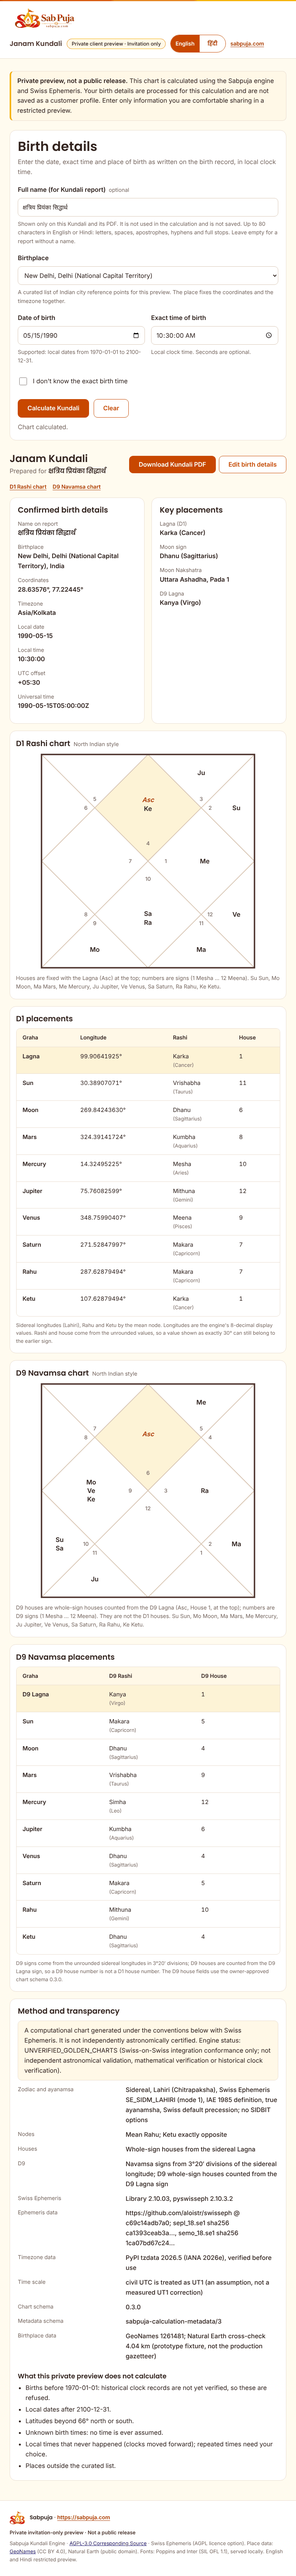
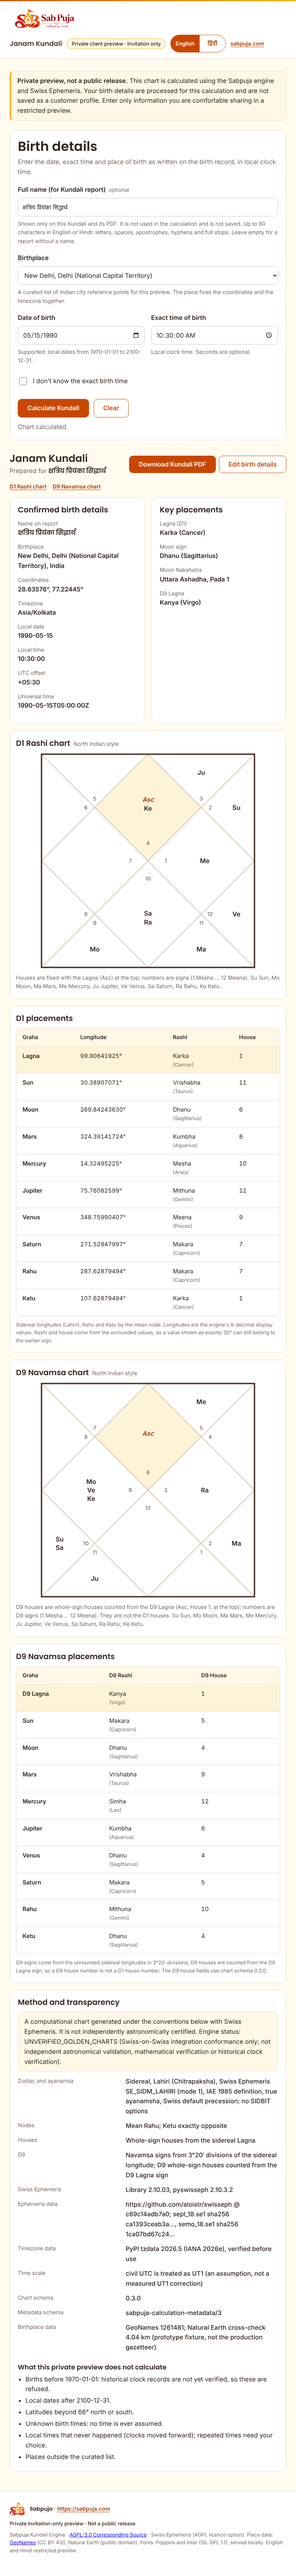
KUN-I18N-COPY-005 (1/2): apply owner-approved Changes A and B (reviewed source)
Owner decision (issue #73): implement Changes A and B exactly as documented, for
exact-SHA independent QA. This commit is the new editorial reviewed source; the
next commit re-pins the register to it (refresh_manifest.py --pin-source) and
adds the PAN-QA-08 v4 identity overlay. Until then test_editorial_register and
the PAN-QA-08 current-tree checks fail here by design.

Change A (register item 13): report/phase1/report_i18n.json method.exc5 English
"Hindi edition" -> "Hindi text (available as a separate edition)"; Hindi value
byte-identical. The 26 pinned English report hashes in test_premium_name.py are
replaced; each new value equals the renderer bytes recomputed on this tree, and
each old value equals the renderer bytes on 7fc1702. English pages 1-9 are
identical (content stream, text, drawings); page 10 differs by that one line;
all 52 Hindi PDFs are byte-identical to 7fc1702.

Change B (register item 15): prototype/kundali_prototype/static/i18n.json
ui.d9.footnote EN "... use the owner-approved chart schema 0.3.0." -> "... use
chart schema 0.3.0."; HI "... स्वीकृत चार्ट स्कीमा 0.3.0 ..." -> "... चार्ट स्कीमा
0.3.0 ..."; the index.html English fallback matches. No PDF, /api/chart or schema
change.

Tests: report/phase1/tests/test_owner_copy_change_a.py and _b.py (from the
reviewed patches, B tightened to the full exact strings and the HTML fallback).

Review packet (docs/i18n/review/kun-i18n-003/): sample-en-anonymous.pdf
[…]

diff --git a/prototype/kundali_prototype/static/index.html b/prototype/kundali_prototype/static/index.html
@@ -163,7 +163,7 @@
               <tbody></tbody>
             </table>
           </div>
-          <p class="footnote" data-i18n="d9.footnote">D9 signs come from the unrounded sidereal longitudes in 3°20′ divisions; D9 houses are counted from the D9 Lagna sign, so a D9 house number is not a D1 house number. The D9 house fields use the owner-approved chart schema 0.3.0.</p>
+          <p class="footnote" data-i18n="d9.footnote">D9 signs come from the unrounded sidereal longitudes in 3°20′ divisions; D9 houses are counted from the D9 Lagna sign, so a D9 house number is not a D1 house number. The D9 house fields use chart schema 0.3.0.</p>
         </article>
 
         <article class="card method-card" aria-labelledby="method-heading">

diff --git a/report/phase1/tests/test_premium_name.py b/report/phase1/tests/test_premium_name.py
@@ -26,35 +26,37 @@ SCENARIO_DIR = HERE / 'fixtures/premium'
 MANIFEST = json.loads((SCENARIO_DIR / 'manifest.json').read_text())
 SCENARIOS = {c['id']: json.loads((SCENARIO_DIR / f'{c["id"]}.json').read_text()) for c in MANIFEST['cases']}
 
-# SHA-256 of generate(fixture, synthetic, palette='baseline') at c57747a (PR #56 head, before
-# this feature), as [synthetic=False, synthetic=True]. The anonymous report must not change.
+# SHA-256 of generate(fixture, synthetic, palette='baseline'), as [synthetic=False, synthetic=True].
+# Owner-approved English baseline after Change A (KUN-I18N-003 spec): page 10 method.exc5 reads
+# "Hindi text (available as a separate edition)". Before that change these were the c57747a / PR #58
+# values. The anonymous report must not change.
 BEFORE = {
[52 lines of base64/hex data omitted]
 }
 
 NAMES = {

diff --git a/report/phase1/tests/test_owner_copy_change_b.py b/report/phase1/tests/test_owner_copy_change_b.py
@@ -1,0 +1,46 @@
+"""KUN-I18N-003 owner copy Change B, applied in KUN-I18N-COPY-005 (issue #73, owner chat approval for
+implementation and independent QA; the signed owner attestation is still pending)."""
+import sys
+import unittest
+from pathlib import Path
+
+ROOT = Path(__file__).resolve().parents[3]
+sys.path.insert(0, str(ROOT))
+from report.phase1 import report_locale as loc  # noqa: E402
+
+HERE = Path(__file__).resolve().parent
+sys.path.insert(0, str(HERE))
+import test_report_i18n as i18n_tests  # noqa: E402
+
+UI = loc.REGISTER['ui']
+PDF = loc.STRINGS
+
+
+def squash(text):
+    return ' '.join(text.split())
+
+
+class ChangeBNeutralSchemaWording(unittest.TestCase):
+    """Owner-approved Change B (KUN-I18N-003 spec): the customer D9 footnote names the schema
+    version only. Schema 0.3.0 itself and its engineering approvals are unchanged."""
+
+    def test_footnote_names_schema_without_approval_wording(self):
+        entry = UI['d9.footnote']
+        self.assertTrue(entry['en'].endswith('The D9 house fields use chart schema 0.3.0.'))
+        self.assertTrue(entry['hi'].endswith('D9 भाव के फ़ील्ड चार्ट स्कीमा 0.3.0 के अनुसार हैं।'))
+        html = (ROOT / 'prototype/kundali_prototype/static/index.html').read_text(encoding='utf-8')
+        self.assertNotIn('owner-approved chart schema', html)
+        self.assertEqual(html.count(f'<p class="footnote" data-i18n="d9.footnote">{entry["en"]}</p>'), 1)
+        self.assertEqual(entry['en'], 'D9 signs come from the unrounded sidereal longitudes in 3°20′ divisions; '
+                         'D9 houses are counted from the D9 Lagna sign, so a D9 house number is not a D1 house '
+                         'number. The D9 house fields use chart schema 0.3.0.')
+        self.assertEqual(entry['hi'], 'D9 राशियाँ बिना पूर्णांकन वाले निरयन भोगांशों के 3°20′ के विभागों से '
+                         'निकलती हैं; D9 भाव D9 लग्न राशि से गिने जाते हैं, इसलिए D9 भाव संख्या D1 भाव संख्या '
+                         'नहीं है। D9 भाव के फ़ील्ड चार्ट स्कीमा 0.3.0 के अनुसार हैं।')
+        for key, entry in UI.items():
+            self.assertNotIn('owner-approved', entry['en'], key)
+            self.assertNotIn('स्वीकृत', entry['hi'], key)
+
+
+if __name__ == '__main__':
+    unittest.main()

diff --git a/report/phase1/tests/test_owner_copy_change_a.py b/report/phase1/tests/test_owner_copy_change_a.py
@@ -1,0 +1,43 @@
+"""KUN-I18N-003 owner copy Change A, applied in KUN-I18N-COPY-005 (issue #73, owner chat approval for
+implementation and independent QA; the signed owner attestation is still pending)."""
+import sys
+import unittest
+from pathlib import Path
+
+ROOT = Path(__file__).resolve().parents[3]
+sys.path.insert(0, str(ROOT))
+from report.phase1 import report_locale as loc  # noqa: E402
+
+HERE = Path(__file__).resolve().parent
+sys.path.insert(0, str(HERE))
+import test_report_i18n as i18n_tests  # noqa: E402
+
+UI = loc.REGISTER['ui']
+PDF = loc.STRINGS
+
+
+def squash(text):
+    return ' '.join(text.split())
+
+
+class ChangeAEnglishPage10(unittest.TestCase):
+    """Owner-approved Change A (KUN-I18N-003 spec): English page 10 no longer lists the Hindi
+    edition as unavailable. The Hindi value is unchanged."""
+
+    def test_exact_wording_and_hindi_unchanged(self):
+        self.assertEqual(PDF['method.exc5']['en'], 'Hindi text (available as a separate edition)')
+        self.assertEqual(PDF['method.exc5']['hi'], 'अंग्रेज़ी पाठ (अलग संस्करण में उपलब्ध)')
+
+    def test_page10_english_shows_the_new_line_once(self):
+        from report.phase1 import premium_report as premium
+        import fitz
+        for case in i18n_tests.SCENARIOS:
+            with self.subTest(case):
+                pdf = fitz.open(stream=premium.generate(i18n_tests.SCENARIOS[case], synthetic=True, palette='baseline'), filetype='pdf')
+                text = squash(pdf[premium.PAGE_OF['method'] - 1].get_text())
+                self.assertEqual(text.count('Hindi text (available as a separate edition)'), 1)
+                self.assertNotIn('Hindi edition', text)
+
+
+if __name__ == '__main__':
+    unittest.main()

diff --git a/docs/i18n/review/kun-i18n-003/locations.py b/docs/i18n/review/kun-i18n-003/locations.py
@@ -49,7 +49,7 @@ ITEMS = {
     10: ['ट्रॉम्सो', 'ट्रोम्स', 'यूनाइटेड किंगडम', 'लंदन', 'इंग्लैंड', 'नॉर्वे'],
     13: ['अंग्रेज़ी पाठ (अलग संस्करण में उपलब्ध)'],
     14: ['राशियों की ये क्रम संख्याएँ'],
-    15: ['स्वीकृत चार्ट स्कीमा'],
+    15: ['चार्ट स्कीमा 0.3.0'],
     17: ['कोई कुंडली नहीं बनाई गई।'],
 }
 ABBR = [loc.TERMS['graha'][g]['hi_abbr'] for g in premium.GRAHAS]

diff --git a/docs/i18n/review/kun-i18n-003/EVIDENCE-MANIFEST.md b/docs/i18n/review/kun-i18n-003/EVIDENCE-MANIFEST.md
@@ -24,14 +24,15 @@ owner-copy patches are files under `patches/` and are **not applied**.
 
 | SHA-256 | File |
 |---|---|
[16 lines of base64/hex data omitted]
@@ -41,27 +42,27 @@ owner-copy patches are files under `patches/` and are **not applied**.
[38 lines of base64/hex data omitted]

diff --git a/docs/i18n/review/kun-i18n-003/OWNER-COPY-ATTESTATION.md b/docs/i18n/review/kun-i18n-003/OWNER-COPY-ATTESTATION.md
@@ -1,0 +1,42 @@
+# Owner copy attestation: Changes A and B (register items 13 and 15)
+
+**To be completed and signed by the Sabpuja owner only. Nothing on this form has been filled in by the
+developer or by any AI assistant (Claude, ChatGPT or any other), and none of them can sign it.**
+
+## Governance note (what has and has not happened)
+
+On 2026-11-04 (Asia/Kolkata) the owner replied "i will go with your recommendation" to the question "Do you
+approve both proposed wording changes, A (English PDF page 10) and B (English/Hindi chart-schema wording),
+exactly as documented?" (issue #73, KUN-I18N-COPY-005). That decision authorized **implementation and
+exact-SHA independent QA** of the two strings below. It is recorded here as a chat decision only.
+
+It is **not** a signed owner attestation, a merge, a deployment, a customer release or a Hindi language
+review. Register items 13 and 15 keep `owner_copy` **PENDING** until this form is signed and committed under
+`signed/` and recorded in `editorial-acceptance-register.json` by the procedure in
+`EDITORIAL-ACCEPTANCE-REGISTER.md`. The Hindi wording of item 15 still needs the independent human Hindi
+language reviewer (row L-15); the owner's copy decision does not replace that review.
+
+## The two exact strings
+
+| | Change A (register item 13) | Change B (register item 15) |
+|---|---|---|
+| Catalog and key | `report/phase1/report_i18n.json` `method.exc5` (English PDF page 10) | `prototype/kundali_prototype/static/i18n.json` `ui.d9.footnote`, and the English fallback in `prototype/kundali_prototype/static/index.html` |
+| Before | `Hindi edition` | EN `The D9 house fields use the owner-approved chart schema 0.3.0.` / HI `D9 भाव के फ़ील्ड स्वीकृत चार्ट स्कीमा 0.3.0 के अनुसार हैं।` |
+| After | `Hindi text (available as a separate edition)` | EN `The D9 house fields use chart schema 0.3.0.` / HI `D9 भाव के फ़ील्ड चार्ट स्कीमा 0.3.0 के अनुसार हैं।` |
+| Unchanged | Hindi `अंग्रेज़ी पाठ (अलग संस्करण में उपलब्ध)`; all Hindi PDFs | Schema `0.3.0`, `/api/chart`, every PDF |
+
+Specifications: `CHANGE-A-ENGLISH-PAGE10.md`, `CHANGE-B-SCHEMA-WORDING.md`.
+
+## Owner record (owner only)
+
+| Decision | Approve / Reject | Exact commit approved (40 hex) | Date (YYYY-MM-DD) | Signature |
+|---|---|---|---|---|
+| Change A: `Hindi text (available as a separate edition)` | | | | |
+| Change B: `chart schema 0.3.0` / `चार्ट स्कीमा 0.3.0` | | | | |
+
+| | |
+|---|---|
+| Owner full name | |
+| Web catalog SHA-256 approved (copy from the register's `reviewed_source`) | |
+| PDF catalog SHA-256 approved (copy from the register's `reviewed_source`) | |
+| Signature | |

diff --git a/docs/i18n/review/kun-i18n-003/REVIEW-PACKET.md b/docs/i18n/review/kun-i18n-003/REVIEW-PACKET.md
@@ -11,7 +11,7 @@ are proposals for the reviewer to accept, revise or reject. No human review has 
[5 lines of base64/hex data omitted]
 
 Every birth detail, name and chart in this packet is synthetic (fixture `s11-afternoon`: New Delhi,
 5 September 2038, 15:20:10; name "क्षत्रिय प्रियंका सिद्धार्थ" where a named sample is shown). No

diff --git a/docs/i18n/review/kun-i18n-003/CHANGE-B-SCHEMA-WORDING.md b/docs/i18n/review/kun-i18n-003/CHANGE-B-SCHEMA-WORDING.md
@@ -1,6 +1,6 @@
 # Change B: customer-facing chart schema wording (owner-controlled)
 
-**Status: SPECIFICATION AND UNAPPLIED PATCH. Not authorized. The canonical catalogs are unchanged.**
+**Status: APPLIED (KUN-I18N-COPY-005, issue #73).** The owner approved this change for implementation and exact-SHA independent QA in chat on 2026-11-04 ("i will go with your recommendation", in reply to the question whether to approve Changes A and B exactly as documented). That chat decision is not a signed owner attestation: register item 15 `owner_copy` stays **PENDING** until the owner signs `OWNER-COPY-ATTESTATION.md`. Not merged, not released. The text below is the original specification, kept for traceability; the patch under `patches/` is the historical proposal and is not re-applied.
 Apply only after the owner's explicit approval, recorded with attribution in
 `editorial-acceptance-register.json` (item 15, `owner_copy`) in the same commit. The Hindi
 replacement still needs the human language reviewer's acceptance (item 15, `human_hindi_language`).

diff --git a/docs/i18n/review/kun-i18n-003/CHANGE-A-ENGLISH-PAGE10.md b/docs/i18n/review/kun-i18n-003/CHANGE-A-ENGLISH-PAGE10.md
@@ -1,6 +1,6 @@
 # Change A: English page 10 "Hindi edition" (owner-controlled)
 
-**Status: SPECIFICATION AND UNAPPLIED PATCH. Not authorized. The canonical catalogs are unchanged.**
+**Status: APPLIED (KUN-I18N-COPY-005, issue #73).** The owner approved this change for implementation and exact-SHA independent QA in chat on 2026-11-04 ("i will go with your recommendation", in reply to the question whether to approve Changes A and B exactly as documented). That chat decision is not a signed owner attestation: register item 13 `owner_copy` stays **PENDING** until the owner signs `OWNER-COPY-ATTESTATION.md`. Not merged, not released. The text below is the original specification, kept for traceability; the patch under `patches/` is the historical proposal and is not re-applied.
 Apply only after the owner's explicit approval, recorded with attribution in
 `editorial-acceptance-register.json` (item 13, `owner_copy`) in the same commit.
 

diff --git a/docs/i18n/review/kun-i18n-003/LOCATIONS.md b/docs/i18n/review/kun-i18n-003/LOCATIONS.md
@@ -132,7 +132,7 @@ Devanagari name, rendered from this commit. Web locations: the catalog key and t
 
 ## Item 15
 
-- **स्वीकृत चार्ट स्कीमा**: PDF pages none in the fixtures
+- **चार्ट स्कीमा 0.3.0**: PDF pages 10
   - web `ui.d9.footnote` (Result: D9 chart and table)
 
 ## Item 17
